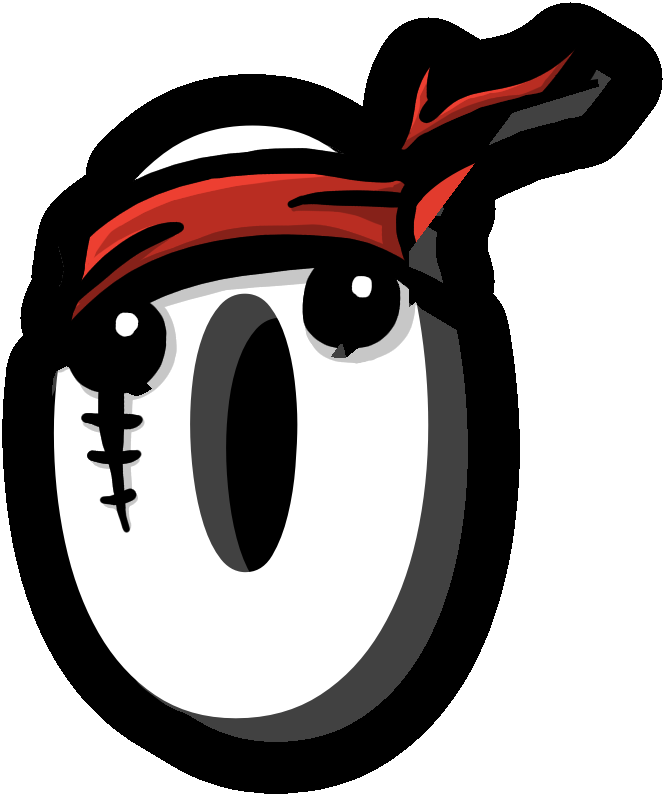
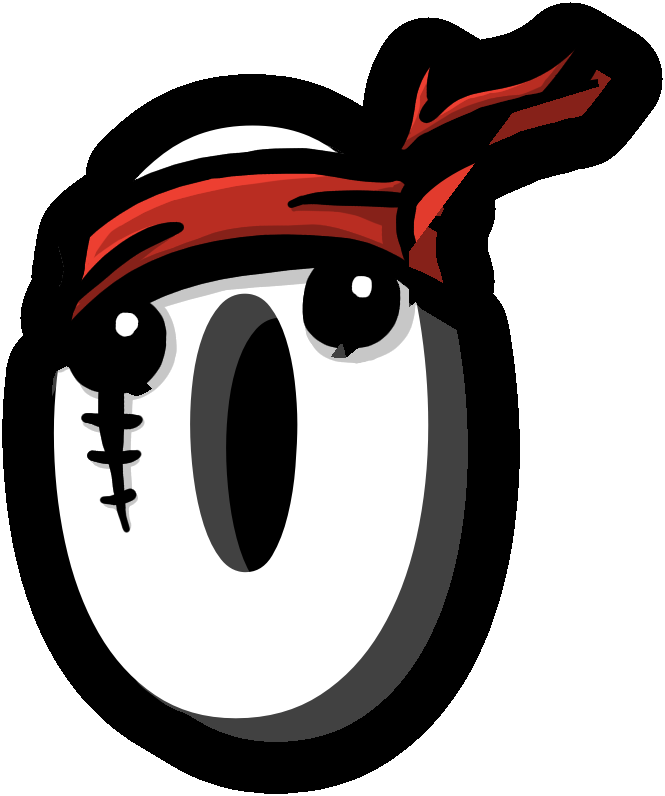
Title letters: Brotato's bandana casts a red side, not grey
The O's 3D side was swept from its whole face in the potato's dark grey,
so the bandana's side, under its tail and beside its knot, came out grey.
extrude gains colour_by: face pixels of given colours are swept on their
own and what they reach takes their colour, here the bandana's dark red
(134, 33, 25); the potato's own side stays grey.

Claude-Session: https://claude.ai/code/session_01LaEujs9YnMdNDXFvH6ctpV

Changed region(s): [[0.7218, 0.0905, 0.9323, 0.1809], [0.6015, 0.2714, 0.6617, 0.3618]]

diff --git a/tools/logo_letters.py b/tools/logo_letters.py
@@ -196,6 +196,9 @@ so Godot never imports the source), is JSON:
                   colour (Brotato's potato O, its face as drawn);
                   "extrude": {"dx", "dy", "colour", "skip"} (in cut) gives a
                   block letter its 3D side by sweeping its face (Isaac);
+                  "colour_by": [{"rgb_ranges", "colour"}] gives the side swept
+                  from face pixels of those colours a colour of its own
+                  (Brotato's red bandana, on a potato with a grey side);
                   "colour_far", "alpha", "alpha_far" shade it from the face
                   out and let it fade (Vampire Survivors); "colour_down"
                   (and "colour_down_far") colours the walls swept from the
@@ -1451,6 +1454,21 @@ def cut(cfg_path: Path, preview: Path | None = None) -> list[Path]:
                 if gap.any() and (reached & ~face_m).any():
                     _, (gy, gx) = nd.distance_transform_edt(~(reached & ~face_m), return_indices=True)
                     side_rgb[gap] = side_rgb[gy[gap], gx[gap]]
+                for cb in ex_cfg.get("colour_by", []):
+                    # Side swept from part of the face takes that part's own
+                    # colour (Brotato's red bandana casts a red side, not the
+                    # potato's grey): the face pixels of those colours swept
+                    # alone, and wherever their sweep is side, that colour
+                    sub = np.zeros((H, W), bool)
+                    for rg in cb["rgb_ranges"]:
+                        sub |= ((A[..., 0] >= rg[0]) & (A[..., 0] <= rg[1]) & (A[..., 1] >= rg[2])
+                                & (A[..., 1] <= rg[3]) & (A[..., 2] >= rg[4]) & (A[..., 2] <= rg[5]))
+                    sub &= face_m
+                    swept = sub.copy()
+                    for k in range(1, steps + 1):
+                        swept |= nd.shift(sub, (round(ex_cfg["dy"] * k / steps), round(ex_cfg["dx"] * k / steps)),
+                                          order=0, cval=False)
+                    side_rgb[swept & side & ~face_m] = cb["colour"]
                 rgb[:] = 0
                 al[:] = 0
                 ol = ex_cfg.get("outline")

diff --git a/docs/content-authoring.md b/docs/content-authoring.md
@@ -417,7 +417,11 @@ above the line, and everything inside its outline is kept AS DRAWN (`as_drawn`:
 a polygon traced round the face, and one round the band and tail, both with
 `inside` so only within the rebuilt silhouette, the band's with
 `skip_colours` so the R's grey side beside it stays out): swept as a block,
-its pupils, stitches and the band's own lines came out side-grey. Its letters
+its pupils, stitches and the band's own lines came out side-grey. The band's
+own 3D side, under its tail and beside its knot, is red, not the potato's
+grey (the owner, 9 Nov 2026): `extrude`'s `colour_by` sweeps the face's red
+pixels on their own and gives what they reach the band's dark red
+(134, 33, 25). Its letters
 are spaced by their drawn edge (`space_by_ink`) and drawn together (`"pad":
 {"*": -0.06}`) so their outlines meet, as in the logo, but only beside each
 other.

diff --git a/CHANGELOG.md b/CHANGELOG.md
@@ -12,8 +12,9 @@ For how the project is laid out and how its systems fit together, see
 ---
 
 - **Title letters: Brotato.** B R O T A T O with their 3D sides, the O the
-  potato with its headband, and its two guns as a decoration pair at the ends
-  of the title. The cutter's `as_drawn` gained `inside` and `skip_colours`
+  potato with its headband (its 3D side red under the band, grey under the
+  potato: `extrude`'s new `colour_by`), and its two guns as a decoration pair
+  at the ends of the title. The cutter's `as_drawn` gained `inside` and `skip_colours`
   (`docs/content-authoring.md`, "Title letters").
 
 - **Title letters: Super Auto Pets smaller and closer.** Its letters are drawn
